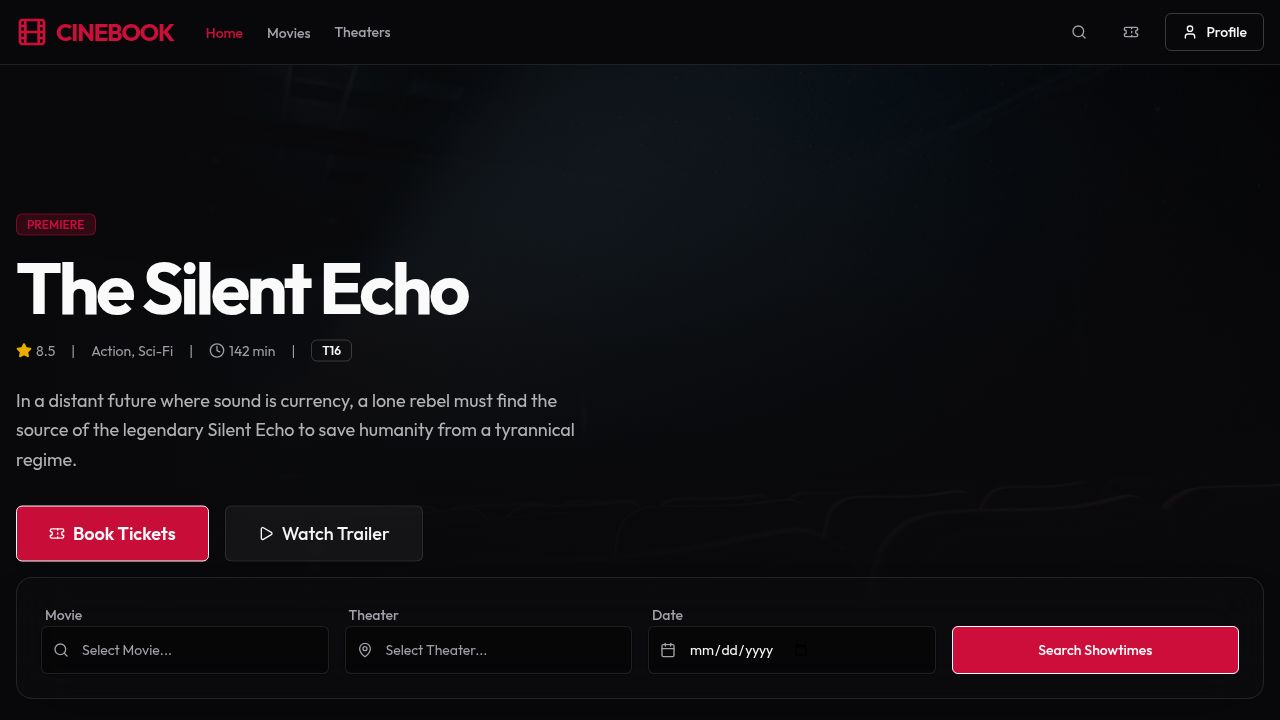
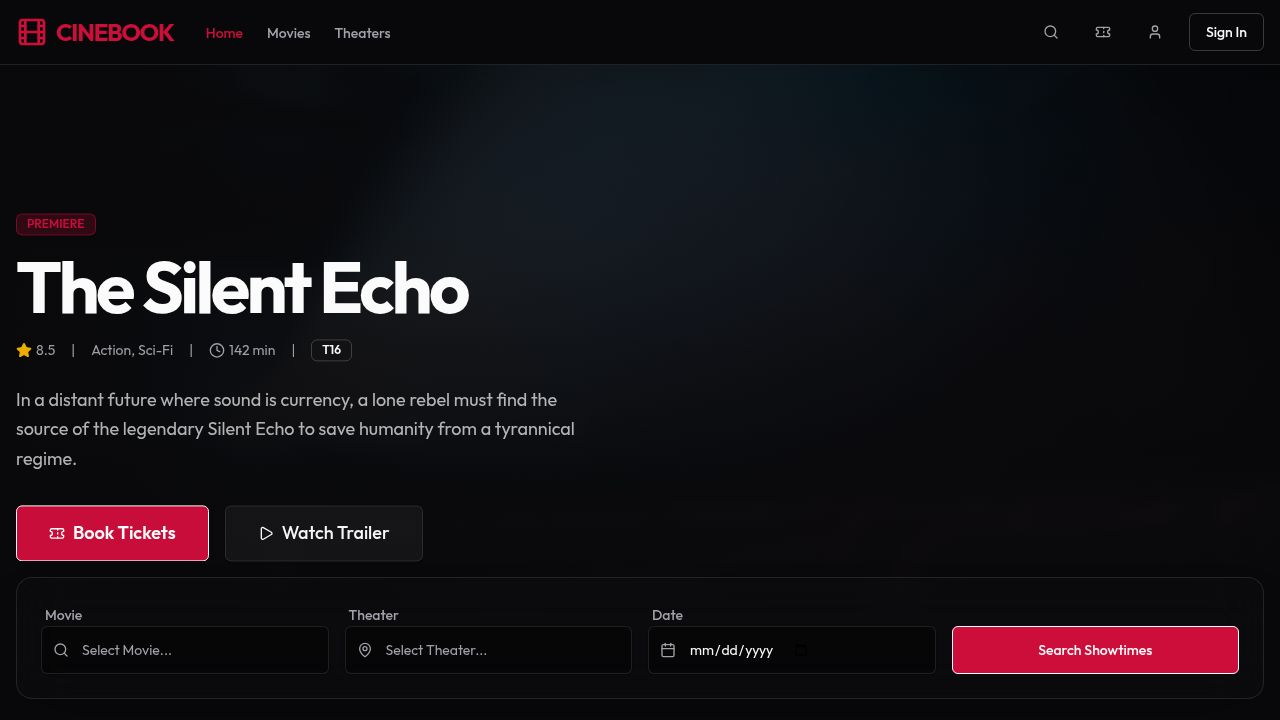
Add movie wishlist functionality and enhance hero section visuals
Implement a watchlist feature for movies, including UI elements for adding/removing movies and a dedicated watchlist section in the user profile. Enhance the hero section's background with increased depth and visual appeal.

Replit-Commit-Author: Agent
Replit-Commit-Session-Id: 57e101cb-f7a4-4b7e-a372-6ed65edf2edd
Replit-Commit-Checkpoint-Type: full_checkpoint
Replit-Commit-Event-Id: 33db1125-3741-4f67-9632-ba149d8e0f4f
Replit-Commit-Screenshot-Url: https://storage.googleapis.com/screenshot-production-us-central1/7898ac16-0499-4c0a-9e0e-da59cc091296/57e101cb-f7a4-4b7e-a372-6ed65edf2edd/BrpySu8
Replit-Helium-Checkpoint-Created: true

diff --git a/client/src/lib/data.ts b/client/src/lib/data.ts
@@ -14,7 +14,7 @@ export const movies = [
     releaseDate: "2024-01-15",
     formats: ["2D", "3D", "IMAX"],
     technology: ["IMAX", "Dolby Atmos"],
-    showtimeStatus: "" // empty, sneak_show, last_chance
+    showtimeStatus: ""
   },
   {
     id: 2,
@@ -66,7 +66,27 @@ export const movies = [
     formats: ["2D"],
     technology: [],
     showtimeStatus: ""
-  }
+  },
+  { id: 5, title: "Midnight Heist", genre: "Crime, Thriller", duration: "138 min", rating: "T16", image: "action", description: "A mastermind plans the most audacious casino heist in Vegas history.", director: "Christopher Nolan", cast: ["Tom Hardy", "Michael B. Jordan"], imdb: 8.2, status: "now_showing", releaseDate: "2024-01-20", formats: ["2D", "IMAX"], technology: ["IMAX"], showtimeStatus: "" },
+  { id: 6, title: "Galaxy Defenders", genre: "Action, Sci-Fi", duration: "156 min", rating: "T13", image: "action", description: "An alien force threatens Earth and only a band of heroes can save it.", director: "Joss Whedon", cast: ["Chris Evans", "Scarlett Johansson"], imdb: 8.0, status: "now_showing", releaseDate: "2024-01-25", formats: ["3D", "IMAX"], technology: ["IMAX", "Dolby Atmos"], showtimeStatus: "" },
+  { id: 7, title: "Love in Paris", genre: "Romance, Drama", duration: "132 min", rating: "T13", image: "romcom", description: "Two artists find unexpected love in the city of lights.", director: "Greta Gerwig", cast: ["Timothée Chalamet", "Florence Pugh"], imdb: 7.8, status: "now_showing", releaseDate: "2024-02-01", formats: ["2D"], technology: [], showtimeStatus: "" },
+  { id: 8, title: "Dark Secrets", genre: "Horror, Mystery", duration: "118 min", rating: "T18", image: "horror", description: "A family uncovers terrifying secrets within the walls of their new home.", director: "Ari Aster", cast: ["Toni Collette", "Gabriel Byrne"], imdb: 7.5, status: "coming_soon", releaseDate: "2024-03-15", formats: ["2D", "3D"], technology: ["Dolby Atmos"], showtimeStatus: "" },
+  { id: 9, title: "Quantum Leap", genre: "Sci-Fi, Adventure", duration: "145 min", rating: "T13", image: "scifi", description: "A scientist discovers a portal to alternate universes.", director: "Denis Villeneuve", cast: ["Oscar Isaac", "Jessica Chastain"], imdb: 8.1, status: "now_showing", releaseDate: "2024-02-08", formats: ["2D", "3D", "IMAX"], technology: ["IMAX", "Dolby Atmos"], showtimeStatus: "" },
+  { id: 10, title: "Laugh Out Loud", genre: "Comedy", duration: "102 min", rating: "T13", image: "romcom", description: "A comedy troupe prepares for the biggest show of their lives.", director: "Taika Waititi", cast: ["Will Ferrell", "Kristen Wiig"], imdb: 7.3, status: "now_showing", releaseDate: "2024-01-30", formats: ["2D"], technology: [], showtimeStatus: "" },
+  { id: 11, title: "The Last Knight", genre: "Action, Fantasy", duration: "148 min", rating: "T16", image: "action", description: "A warrior must stop an ancient evil from destroying the realm.", director: "Peter Jackson", cast: ["Henry Cavill", "Charlize Theron"], imdb: 7.9, status: "coming_soon", releaseDate: "2024-03-30", formats: ["2D", "3D", "IMAX"], technology: ["IMAX", "Dolby Atmos"], showtimeStatus: "" },
+  { id: 12, title: "Silent Whispers", genre: "Horror, Thriller", duration: "110 min", rating: "T18", image: "horror", description: "A haunted voice leads a woman to uncover her family's dark past.", director: "Karyn Kusama", cast: ["Kaitlyn Dever", "Claire Foy"], imdb: 7.6, status: "now_showing", releaseDate: "2024-02-03", formats: ["2D"], technology: ["Dolby Atmos"], showtimeStatus: "" },
+  { id: 13, title: "Cosmic Journey", genre: "Sci-Fi, Adventure", duration: "152 min", rating: "T13", image: "scifi", description: "Explorers journey to the edges of known space.", director: "James Cameron", cast: ["Zoe Saldana", "Sam Worthington"], imdb: 8.3, status: "now_showing", releaseDate: "2024-01-28", formats: ["3D", "IMAX"], technology: ["IMAX", "ScreenX", "Dolby Atmos"], showtimeStatus: "" },
+  { id: 14, title: "Romantic Getaway", genre: "Romance, Comedy", duration: "108 min", rating: "T13", image: "romcom", description: "A vacation brings two rivals closer together.", director: "Jenny Bowen", cast: ["Anna Kendrick", "Justin Timberlake"], imdb: 7.0, status: "coming_soon", releaseDate: "2024-03-20", formats: ["2D"], technology: [], showtimeStatus: "" },
+  { id: 15, title: "Underground", genre: "Crime, Drama", duration: "129 min", rating: "T16", image: "action", description: "A streetwise entrepreneur builds an illegal empire.", director: "Mario Van Peebles", cast: ["Michael B. Jordan", "Jurnee Smollett-Bell"], imdb: 7.7, status: "now_showing", releaseDate: "2024-02-05", formats: ["2D"], technology: [], showtimeStatus: "" },
+  { id: 16, title: "Phantom Protocol", genre: "Action, Thriller", duration: "135 min", rating: "T16", image: "action", description: "A secret agent must uncover a plot within the agency.", director: "Brad Bird", cast: ["Tom Cruise", "Rebecca Ferguson"], imdb: 8.4, status: "now_showing", releaseDate: "2024-02-12", formats: ["2D", "IMAX"], technology: ["IMAX"], showtimeStatus: "sneak_show" },
+  { id: 17, title: "Shadowed Heart", genre: "Horror, Romance", duration: "115 min", rating: "T16", image: "horror", description: "A love story between a human and a supernatural being.", director: "Cary Fukunaga", cast: ["Thomasin McKenzie", "Riz Ahmed"], imdb: 7.4, status: "coming_soon", releaseDate: "2024-03-22", formats: ["2D", "3D"], technology: ["Dolby Atmos"], showtimeStatus: "" },
+  { id: 18, title: "Final Frontier", genre: "Sci-Fi, Adventure", duration: "160 min", rating: "T13", image: "scifi", description: "Humanity's last chance to find a new home.", director: "Christopher Nolan", cast: ["Matthew McConaughey", "Anne Hathaway"], imdb: 8.6, status: "coming_soon", releaseDate: "2024-03-28", formats: ["2D", "3D", "IMAX"], technology: ["IMAX", "Dolby Atmos"], showtimeStatus: "last_chance" },
+  { id: 19, title: "Comedy Gold", genre: "Comedy, Drama", duration: "98 min", rating: "T13", image: "romcom", description: "A struggling comedian gets one last shot at stardom.", director: "Judd Apatow", cast: ["Adam Sandler", "Tilda Swinton"], imdb: 7.2, status: "now_showing", releaseDate: "2024-02-07", formats: ["2D"], technology: [], showtimeStatus: "" },
+  { id: 20, title: "Revenge of Kings", genre: "Action, Drama", duration: "142 min", rating: "T16", image: "action", description: "A dethroned king seeks to reclaim his crown.", director: "David Leitch", cast: ["Henry Cavill", "Charlize Theron"], imdb: 8.0, status: "now_showing", releaseDate: "2024-02-09", formats: ["2D", "IMAX"], technology: ["IMAX"], showtimeStatus: "" },
+  { id: 21, title: "Eternal Night", genre: "Horror, Fantasy", duration: "125 min", rating: "T18", image: "horror", description: "Vampires emerge from the shadows to reclaim the world.", director: "Fede Álvarez", cast: ["Nicolas Cage", "Ryan Reynolds"], imdb: 7.3, status: "coming_soon", releaseDate: "2024-03-25", formats: ["2D", "3D"], technology: ["Dolby Atmos"], showtimeStatus: "" },
+  { id: 22, title: "Love & Thunder", genre: "Action, Romance", duration: "138 min", rating: "T13", image: "action", description: "A superhero discovers that love is his greatest power.", director: "Taika Waititi", cast: ["Chris Hemsworth", "Natalie Portman"], imdb: 7.8, status: "now_showing", releaseDate: "2024-01-31", formats: ["2D", "3D", "IMAX"], technology: ["IMAX", "Dolby Atmos"], showtimeStatus: "" },
+  { id: 23, title: "Mystery at Midnight", genre: "Mystery, Thriller", duration: "118 min", rating: "T16", image: "scifi", description: "A detective must solve a case before midnight or lose everything.", director: "Oren Moverman", cast: ["Timothée Chalamet", "Marion Cotillard"], imdb: 7.5, status: "now_showing", releaseDate: "2024-02-06", formats: ["2D"], technology: [], showtimeStatus: "" },
+  { id: 24, title: "Hearts Collide", genre: "Romance, Drama", duration: "112 min", rating: "T13", image: "romcom", description: "Two souls find connection against all odds.", director: "Emerald Fennell", cast: ["Saoirse Ronan", "Paul Mescal"], imdb: 7.7, status: "coming_soon", releaseDate: "2024-03-18", formats: ["2D"], technology: [], showtimeStatus: "" }
 ];
 
 export const genres = [

diff --git a/client/src/pages/Home.tsx b/client/src/pages/Home.tsx
@@ -1,6 +1,6 @@
-import { useState } from "react";
+import { useState, useEffect } from "react";
 import { Link } from "wouter";
-import { Play, Calendar, MapPin, Search, Star, Clock } from "lucide-react";
+import { Play, Calendar, MapPin, Search, Star, Clock, Heart } from "lucide-react";
 import { Button } from "@/components/ui/button";
 import { Input } from "@/components/ui/input";
 import { Badge } from "@/components/ui/badge";
@@ -23,23 +23,44 @@ const imageMap: Record<string, string> = {
 
 export default function Home() {
   const [activeTab, setActiveTab] = useState("now_showing");
+  const [watchlist, setWatchlist] = useState<number[]>([]);
+  
+  // Load watchlist from localStorage
+  useEffect(() => {
+    const saved = localStorage.getItem("watchlist");
+    if (saved) setWatchlist(JSON.parse(saved));
+  }, []);
+
+  // Save watchlist to localStorage
+  useEffect(() => {
+    localStorage.setItem("watchlist", JSON.stringify(watchlist));
+  }, [watchlist]);
   
   const featuredMovie = movies[0];
   const displayedMovies = movies.filter(m => 
     activeTab === "all" || m.status === activeTab
   );
 
+  const toggleWatchlist = (movieId: number) => {
+    setWatchlist(prev =>
+      prev.includes(movieId) ? prev.filter(id => id !== movieId) : [...prev, movieId]
+    );
+  };
+
   return (
     <div className="min-h-screen pb-20">
       {/* Hero Section */}
-      <section className="relative h-[80vh] flex items-center pt-16">
+      <section className="relative h-[80vh] flex items-center pt-16 overflow-hidden">
         <div className="absolute inset-0 z-0">
-          <div className="absolute inset-0 bg-gradient-to-t from-background via-background/80 to-transparent z-10" />
-          <div className="absolute inset-0 bg-gradient-to-r from-background via-background/50 to-transparent z-10" />
+          <div className="absolute inset-0 bg-gradient-to-t from-background via-background/70 to-transparent z-20" />
+          <div className="absolute inset-0 bg-gradient-to-r from-background from-0% via-background/60 via-40% to-transparent z-20" />
+          <div className="absolute inset-0 bg-radial-gradient opacity-30 z-15" style={{
+            background: "radial-gradient(ellipse at center, rgba(225, 29, 72, 0.15) 0%, transparent 70%)"
+          }} />
           <img 
             src={heroBg} 
             alt="Hero Background" 
-            className="w-full h-full object-cover opacity-40"
+            className="w-full h-full object-cover opacity-50 scale-110 blur-sm"
           />
         </div>
         
@@ -119,32 +140,44 @@ export default function Home() {
 
           <div className="grid grid-cols-2 md:grid-cols-4 gap-6">
             {displayedMovies.map((movie) => (
-              <Link key={movie.id} href={`/movie/${movie.id}`}>
-                <div className="group cursor-pointer relative">
-                  <div className="relative aspect-[3/4] rounded-xl overflow-hidden mb-4 border border-white/10 bg-black/50">
-                    {/* Fallback color if image is missing */}
-                    <div className="absolute inset-0 bg-muted/20 animate-pulse" />
-                    <img 
-                      src={imageMap[movie.image]} 
-                      alt={movie.title}
-                      className="w-full h-full object-cover transition-transform duration-500 group-hover:scale-105 relative z-10"
-                    />
-                    <div className="absolute inset-0 bg-gradient-to-t from-black/80 via-black/20 to-transparent opacity-0 group-hover:opacity-100 transition-opacity duration-300 z-20 flex flex-col justify-end p-4">
-                      <Button className="w-full gap-2" variant="secondary">
-                        <Ticket className="w-4 h-4" /> Get Tickets
-                      </Button>
-                    </div>
-                    <Badge className="absolute top-3 right-3 z-20 bg-black/60 backdrop-blur-md border-white/20">
-                      {movie.rating}
-                    </Badge>
+              <div key={movie.id} className="group cursor-pointer relative">
+                <div className="relative aspect-[3/4] rounded-xl overflow-hidden mb-4 border border-white/10 bg-black/50">
+                  {/* Fallback color if image is missing */}
+                  <div className="absolute inset-0 bg-muted/20 animate-pulse" />
+                  <img 
+                    src={imageMap[movie.image]} 
+                    alt={movie.title}
+                    className="w-full h-full object-cover transition-transform duration-500 group-hover:scale-105 relative z-10"
+                  />
+                  <div className="absolute inset-0 bg-gradient-to-t from-black/80 via-black/20 to-transparent opacity-0 group-hover:opacity-100 transition-opacity duration-300 z-20 flex flex-col justify-between p-4">
+                    <button
+                      onClick={() => toggleWatchlist(movie.id)}
+                      className="self-end text-white hover:scale-110 transition-transform"
+                    >
+                      <Heart className={`w-6 h-6 ${watchlist.includes(movie.id) ? 'fill-red-500 text-red-500' : 'text-white'}`} />
+                    </button>
+                    <Link href={`/movie/${movie.id}`}>
+                      <a className="w-full">
+                        <Button className="w-full gap-2" variant="secondary">
+                          <Ticket className="w-4 h-4" /> Get Tickets
+                        </Button>
+                      </a>
+                    </Link>
                   </div>
-                  <h3 className="font-semibold text-lg line-clamp-1 group-hover:text-primary transition-colors">{movie.title}</h3>
-                  <div className="flex items-center justify-between text-sm text-muted-foreground mt-1">
-                    <span>{movie.genre}</span>
-                    <span className="flex items-center gap-1"><Star className="w-3 h-3 text-yellow-500" /> {movie.imdb}</span>
-                  </div>
+                  <Badge className="absolute top-3 right-3 z-20 bg-black/60 backdrop-blur-md border-white/20">
+                    {movie.rating}
+                  </Badge>
                 </div>
-              </Link>
+                <Link href={`/movie/${movie.id}`}>
+                  <a className="block">
+                    <h3 className="font-semibold text-lg line-clamp-1 group-hover:text-primary transition-colors">{movie.title}</h3>
+                    <div className="flex items-center justify-between text-sm text-muted-foreground mt-1">
+                      <span>{movie.genre}</span>
+                      <span className="flex items-center gap-1"><Star className="w-3 h-3 text-yellow-500" /> {movie.imdb}</span>
+                    </div>
+                  </a>
+                </Link>
+              </div>
             ))}
           </div>
           {displayedMovies.length === 0 && (

diff --git a/client/src/pages/Profile.tsx b/client/src/pages/Profile.tsx
@@ -1,14 +1,35 @@
-import { useState } from "react";
-import { QrCode, LogOut, Settings, Award, Ticket, Heart } from "lucide-react";
+import { useState, useEffect } from "react";
+import { QrCode, LogOut, Settings, Award, Ticket, Heart, Star } from "lucide-react";
 import { Button } from "@/components/ui/button";
 import { Badge } from "@/components/ui/badge";
 import { Tabs, TabsContent, TabsList, TabsTrigger } from "@/components/ui/tabs";
 import { movies } from "@/lib/data";
+import { Link } from "wouter";
 
 // Import generated images
 import actionPoster from "@/assets/images/poster-action.png";
+import scifiPoster from "@/assets/images/poster-scifi.png";
+import horrorPoster from "@/assets/images/poster-horror.png";
+import romcomPoster from "@/assets/images/poster-romcom.png";
+
+const imageMap: Record<string, string> = {
+  action: actionPoster,
+  scifi: scifiPoster,
+  horror: horrorPoster,
+  romcom: romcomPoster,
+};
 
 export default function Profile() {
+  const [watchlist, setWatchlist] = useState<number[]>([]);
+
+  // Load watchlist from localStorage
+  useEffect(() => {
+    const saved = localStorage.getItem("watchlist");
+    if (saved) setWatchlist(JSON.parse(saved));
+  }, []);
+
+  const watchlistMovies = movies.filter(m => watchlist.includes(m.id));
+
   return (
     <div className="container mx-auto px-4 py-12 max-w-6xl min-h-[calc(100vh-64px)]">
       
@@ -121,8 +142,57 @@ export default function Profile() {
           <div className="text-muted-foreground">Your watch history will appear here.</div>
         </TabsContent>
 
-        <TabsContent value="watchlist" className="mt-0 text-center py-20 bg-card/20 rounded-3xl border border-white/5">
-          <div className="text-muted-foreground">Movies you've saved for later will appear here.</div>
+        <TabsContent value="watchlist" className="mt-0">
+          {watchlistMovies.length > 0 ? (
+            <div>
+              <h2 className="text-2xl font-bold mb-6">My Watchlist</h2>
+              <div className="grid grid-cols-2 md:grid-cols-4 gap-6">
+                {watchlistMovies.map(movie => (
+                  <Link key={movie.id} href={`/movie/${movie.id}`}>
+                    <div className="group cursor-pointer">
+                      <div className="relative aspect-[3/4] rounded-xl overflow-hidden mb-4 border border-white/10 bg-black/50">
+                        <img
+                          src={imageMap[movie.image]}
+                          alt={movie.title}
+                          className="w-full h-full object-cover transition-transform duration-500 group-hover:scale-105"
+                        />
+                        <div className="absolute inset-0 bg-gradient-to-t from-black/80 via-black/20 to-transparent opacity-0 group-hover:opacity-100 transition-opacity duration-300 z-20 flex flex-col justify-end p-4">
+                          <Button className="w-full gap-2" variant="secondary">
+                            <Ticket className="w-4 h-4" /> Get Tickets
+                          </Button>
+                        </div>
+                        <Badge className="absolute top-3 right-3 z-20 bg-black/60 backdrop-blur-md border-white/20">
+                          {movie.rating}
+                        </Badge>
+                        <div className="absolute top-3 left-3 z-20">
+                          <Heart className="w-5 h-5 text-red-500 fill-red-500" />
+                        </div>
+                      </div>
+                      <h3 className="font-semibold text-sm md:text-base line-clamp-2 group-hover:text-primary transition-colors">
+                        {movie.title}
+                      </h3>
+                      <div className="flex items-center justify-between text-xs text-muted-foreground mt-1">
+                        <span className="line-clamp-1">{movie.genre}</span>
+                        <span className="flex items-center gap-1 shrink-0 ml-2">
+                          <Star className="w-3 h-3 text-yellow-500 fill-yellow-500" />
+                          {movie.imdb}
+                        </span>
+                      </div>
+                    </div>
+                  </Link>
+                ))}
+              </div>
+            </div>
+          ) : (
+            <div className="text-center py-20 bg-card/20 rounded-3xl border border-white/5">
+              <Heart className="w-12 h-12 text-muted-foreground mx-auto mb-4 opacity-50" />
+              <p className="text-muted-foreground text-lg">No movies in your watchlist yet</p>
+              <p className="text-muted-foreground text-sm mt-2">Add movies to your watchlist by clicking the heart icon on movie cards</p>
+              <Link href="/">
+                <a><Button className="mt-6">Browse Movies</Button></a>
+              </Link>
+            </div>
+          )}
         </TabsContent>
 
       </Tabs>
